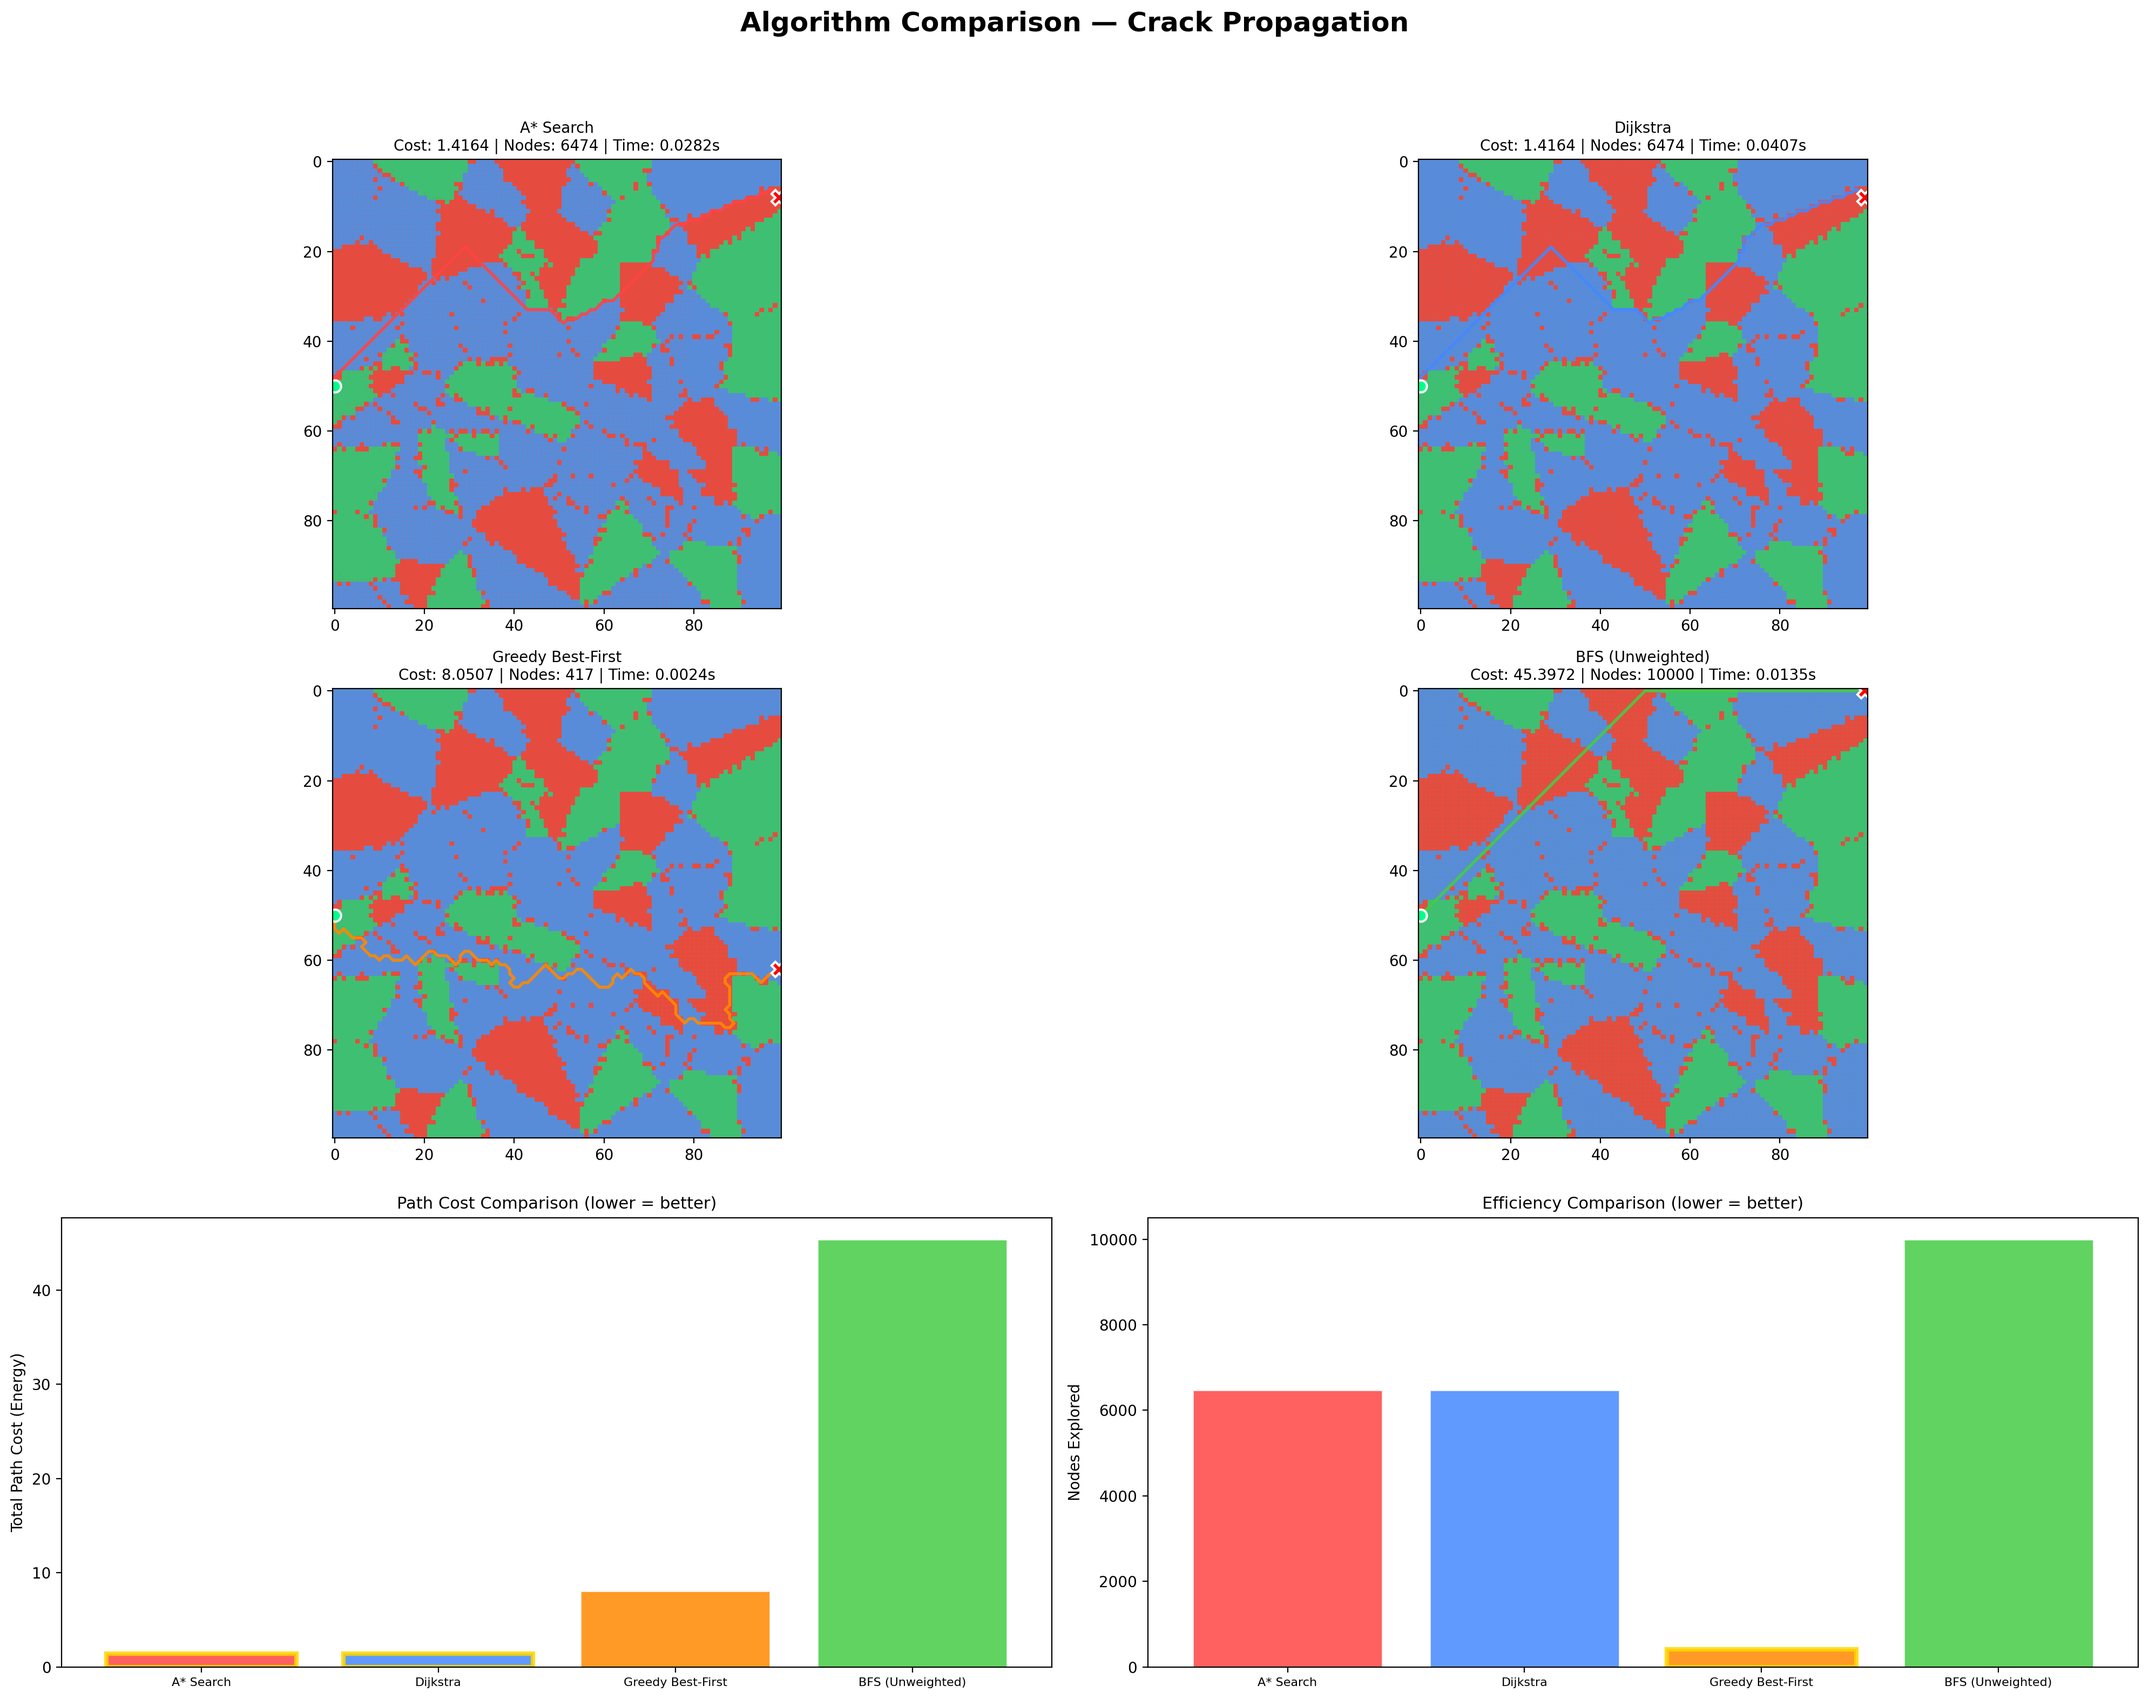
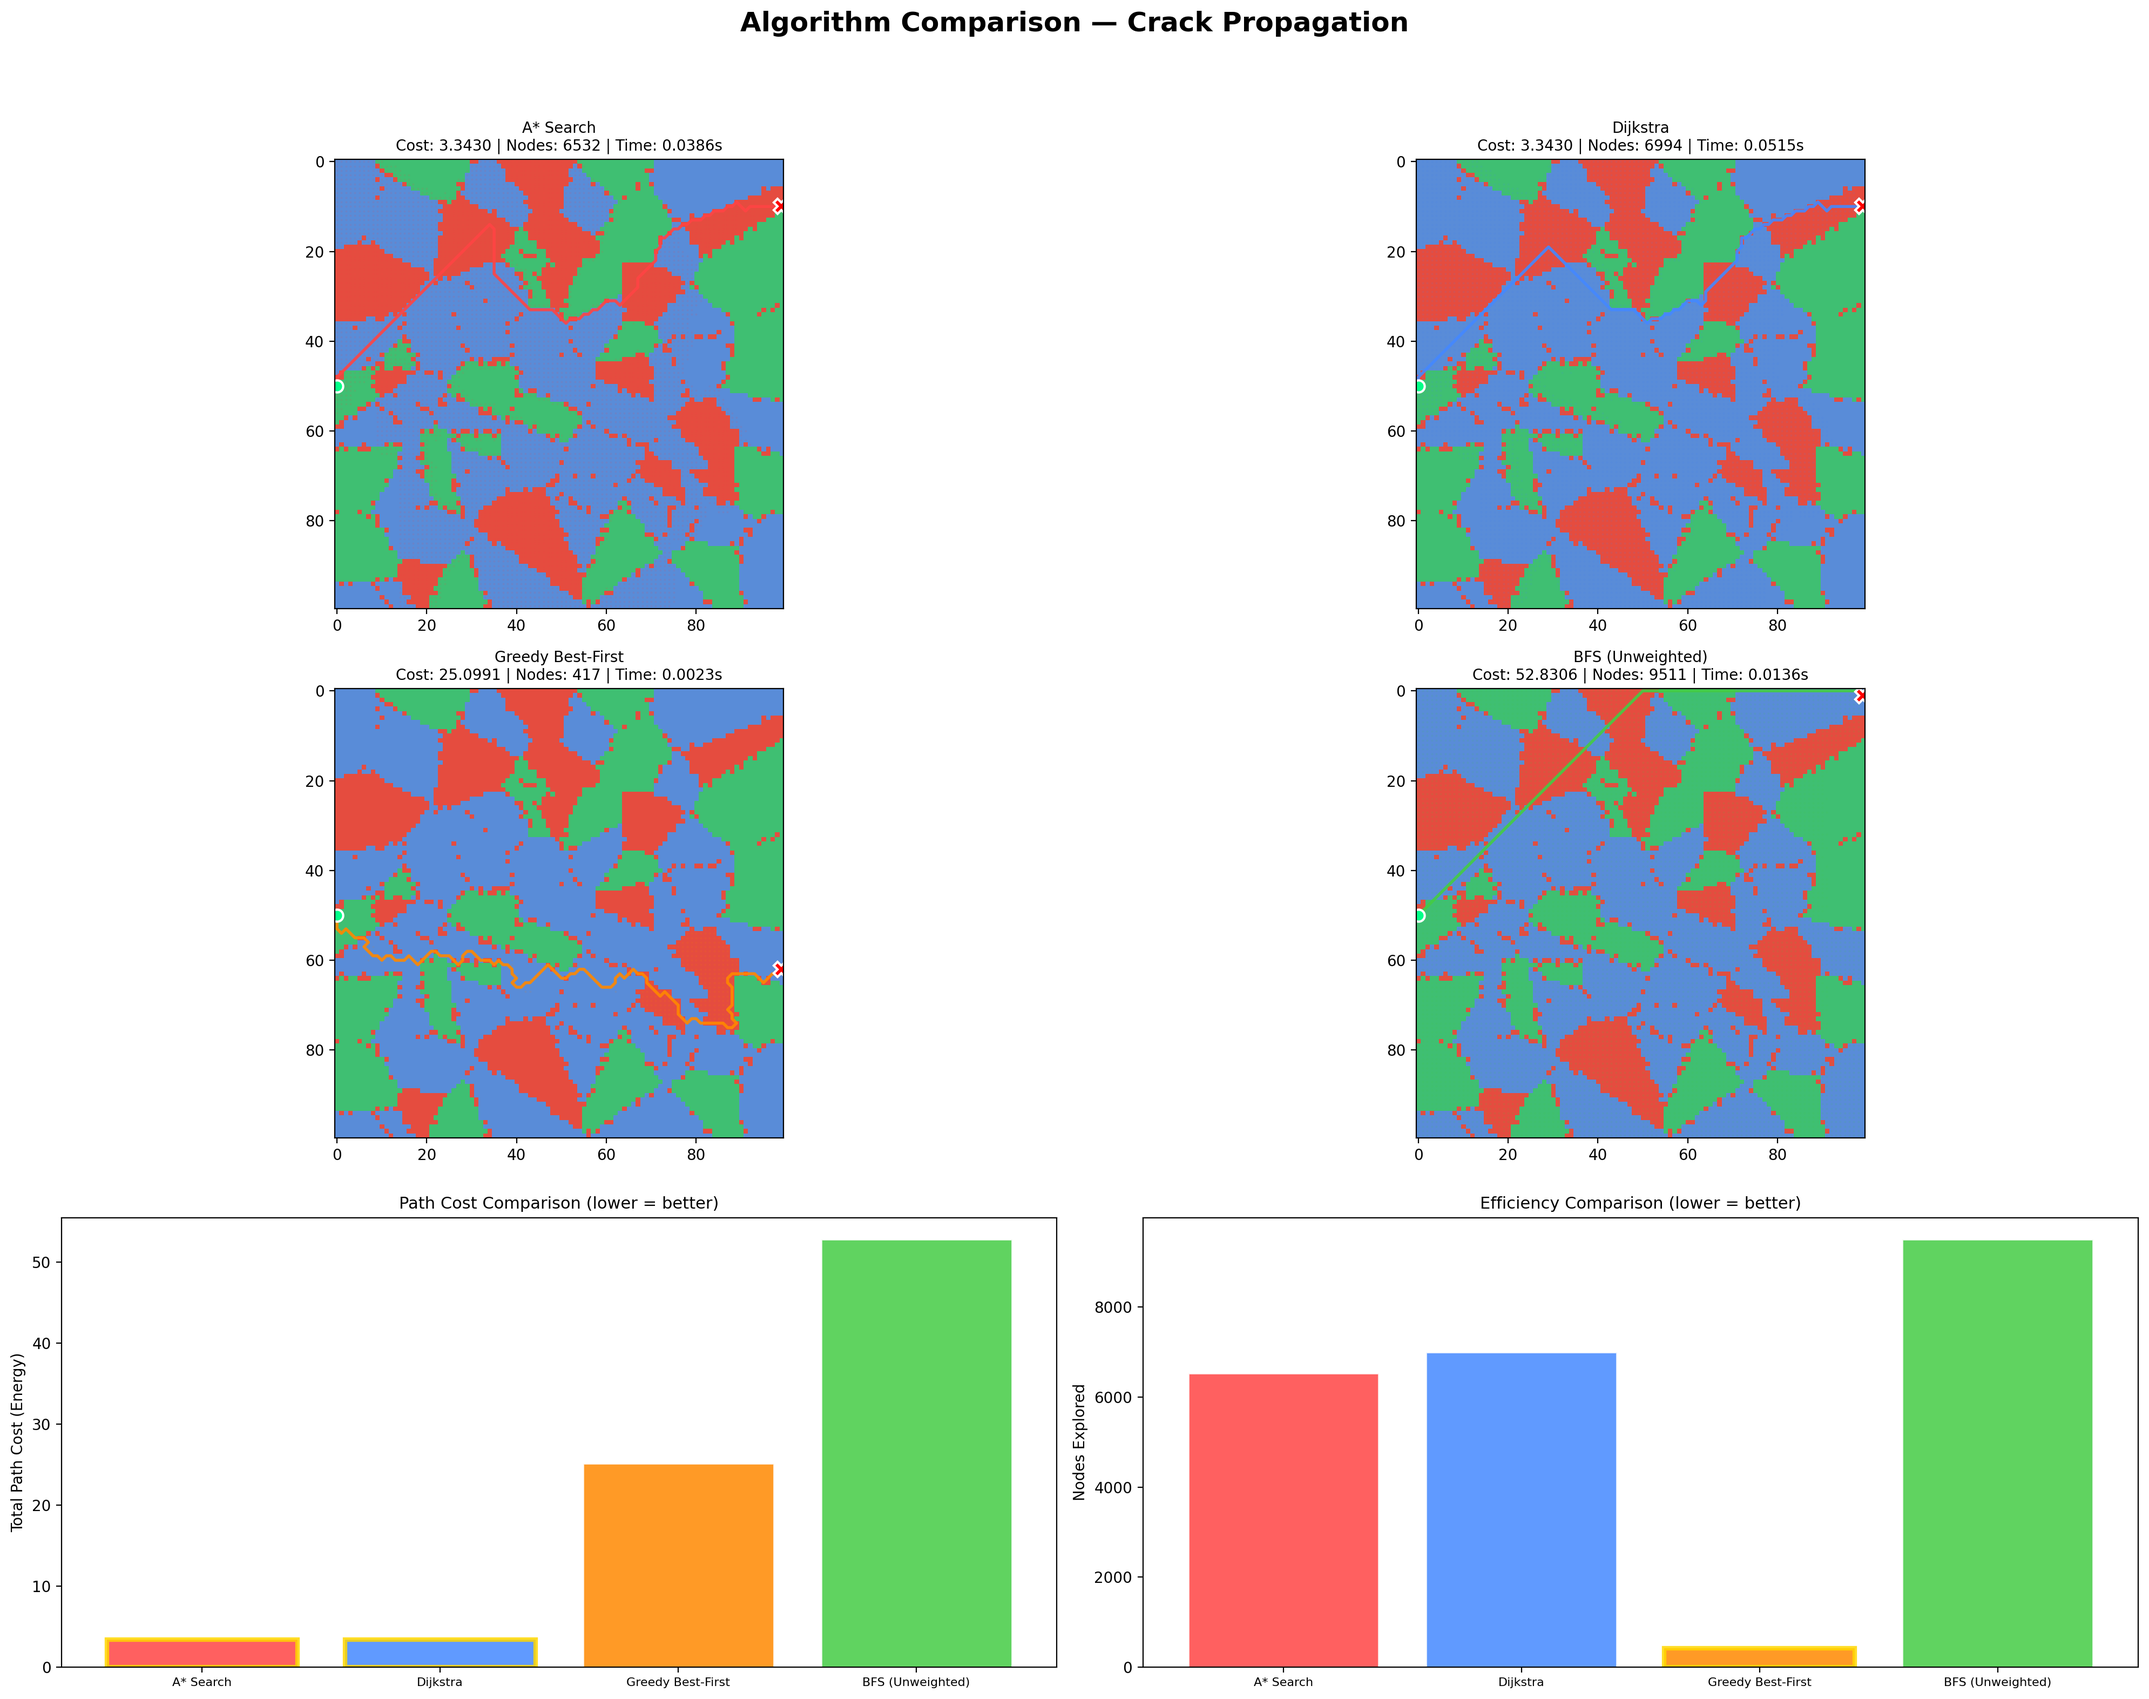
Minor changes

diff --git a/main.py b/main.py
@@ -189,7 +189,7 @@ Modes:
 
     # Stress
     parser.add_argument("--stress-max", type=float, default=2.5)
-    parser.add_argument("--stress-min", type=float, default=0.3)
+    parser.add_argument("--stress-min", type=float, default=0.10)
     parser.add_argument("--k-threshold", type=float, default=0.1)
 
     # Search

diff --git a/Technical_Report.md b/Technical_Report.md
@@ -1,0 +1,110 @@
+# Abstract
+Predicting the path of crack propagation in heterogeneous materials is a complex challenge central to materials science and structural engineering. This project introduces *A\*tomic Fracture*, a novel interdisciplinary approach that models crack propagation as a discrete pathfinding problem solvable via Classical AI. By mapping the principles of Linear Elastic Fracture Mechanics (LEFM) onto a 2D spatial grid, an A* search algorithm is utilized to find the globally optimal, minimum-energy fracture path through a polycrystalline microstructure. This report details the theoretical formulation, algorithmic design, and quantitative performance of the model compared against alternative search techniques.
+
+# Introduction
+Catastrophic material failure often originates from microstructural defects. Understanding and predicting exactly how a crack navigates around tough grains and through brittle inclusions is critical for designing damage-tolerant materials. Historically, crack propagation has been modeled using computationally heavy methods. By adopting Classical AI graph-search techniques, this computationally-expensive problem is transformed into an elegant, scalable optimization framework.
+
+# 1 Problem Formulation
+*   **Real-world problem:** Predicting transcrystalline and intercrystalline crack propagation paths under heterogeneous stress fields in polycrystalline materials.
+*   **Importance:** Accurate prediction of fracture paths helps mitigate catastrophic structural failures in critical applications such as aerospace and nuclear engineering, making proactive damage-tolerant design possible.
+*   **Interdisciplinary significance:** This project combines **Materials Engineering** (fracture toughness, multiphase microstructures) with **Computer Science** (graph theory, heuristic optimization), bridging high-fidelity physical simulation with rapid algorithmic approximation.
+*   **Inputs and Outputs:** 
+    *   *Inputs:* A 2D grid containing multiphase solid mapping (Ferrite, Martensite, Brittle Inclusions), local fracture toughness ($K_{IC}$), and an applied stress gradient ($K_{applied}$).
+    *   *Outputs:* The exact continuous minimum-energy path from the initiation site to the boundary, or an explicit *arrest* state if the driving force is insufficient.
+*   **Problem Characteristics:** The environment is *stochastic* (randomized Voronoi grain generation), the physical state is evaluated as *static* (pre-calculated linear stress gradients), and the solver operates in a *discrete*, *constrained* formulation.
+
+# Literature Context
+Predictive fracture mechanics usually relies on the Extended Finite Element Method (XFEM) or Phase-Field models. While highly accurate, these are notoriously slow. Conversely, graph-based heuristic approaches (like A*) have achieved massive success in operations research and robotics but are rarely applied to physical damage simulations. This project seeks to optimize an energy-based objective function rather than simple geometric distance.
+
+# 2 Method and Justification
+
+## Why This Method is Appropriate
+*   **Method matching:** Crack propagation fundamentally follows the path of least resistance, striving to minimize the total energy released during fracture. This maps perfectly onto the shortest-path graph optimization problem.
+*   **Problem properties and algorithm strengths:** By employing a physically-informed heuristic, A* avoids the exhaustive "flood-fill" exploration characteristic of Dijkstra's algorithm, navigating accurately around high-toughness phases.
+*   **Suitability:** 
+    *   *Optimality:* A* guarantees finding the path with the exact minimum total resistance.
+    *   *Efficiency:* The heuristic prunes the search space dramatically over unweighted or uninformed algorithms.
+    *   *Interpretability:* Every evaluated step explicitly correlates to the local physical energy required to break a specific atomic bond.
+
+## Algorithm Design and Methodology
+*   **Full pipeline:** 
+    1. A Voronoi tessellation assigns randomized phases with characteristic toughness values: Ferrite ($K_{IC}=1.0$), Martensite ($K_{IC}=3.0$), and Inclusions ($K_{IC}=0.3$).
+    2. A linear $K_{applied}$ field is evaluated across the grid to determine the driving force. 
+    3. An admissible *suffix-minimum* array of column-wise resistances is precomputed as the heuristic.
+    4. A* explores the graph, driven by the cost function spanning physical equations, halting at the opposite boundary or upon total arrest.
+
+*   **Major stages:**
+    *   *Edge Cost Evaluation:* $Resistance = \max(0, K_{IC} - K_{applied})$. Backward moves are artificially penalized.
+    *   *Crack Arrest Pruning:* Nodes with $K_{applied} < 0.10 \times K_{IC}$ are discarded.
+
+---
+
+**Algorithm 1** A*tomic Fracture Search Algorithm
+**Require:** Microstructure Input Grid ($K_{IC}$, $K_{applied}$), Start Node $S$, Goal Boundary $G$
+**Ensure:** Minimum-energy contiguous crack path $P$, or ARREST state
+1: Initialize `open_set` as Priority Queue, push $S$
+2: Initialize `g_score[S] = 0`, `came_from = {}`
+3: Precompute admissible heuristic array $H(c)$ based on suffix-min column resistances
+4: **while** `open_set` is not empty **do**
+5:      Select the next node $N(r,c)$ with lowest $f = g + h$
+6:      **if** $N(r,c)$ is on Goal Boundary $G$ **then**
+7:          **Return** reconstructed path $P$ from `came_from`
+8:      **end if**
+9:      **for** each valid neighbor $N'$ of $N$ **do**
+10:         Evaluate local arrest: **if** $K_{applied} < 0.1 \times K_{IC}$ **then** Continue
+11:         Apply transition cost: $R = \max(0, K_{IC}(N') - K_{applied}(N'))$
+12:         Evaluate geometric distance scaling and backward penalty
+13:         $tentative\_g = g\_score[N] + (R \times distance\_scaling)$
+14:         **if** $tentative\_g < g\_score[N']$ **then**
+15:             $g\_score[N'] = tentative\_g$
+16:             Push $N'$ to `open_set` alongside $f\_score = tentative\_g + H(N'_{col})$
+17:         **end if**
+18:     **end for**
+19: **end while**
+20: **Return** failure or best available result (ARREST)
+
+---
+
+# 3 Implementation Details
+
+## System Design
+*   **Software structure:** The software is architected into modular Python scripts. It utilizes `numpy` and `scipy` for rapid matrix calculations and `matplotlib` for visualization.
+*   **Important modules:** 
+    *   `environment.py`: Manages the domain using OOP. Defines boundary generation and localized physics constraints.
+    *   `astar_search.py`: Core algorithm logic containing the specialized, physically-admissible heuristic design.
+    *   `visualizer.py`: Renders granular heat maps and physical paths.
+    *   `algorithm_comparison.py`: Benchmarking suite directly comparing diverse search methods.
+*   **Key data structures:** 2D NumPy arrays representing $K_{IC}$, $K_{applied}$, and grain labels. Min-heaps (priority queues) for standardizing optimal A* boundary expansions.
+
+## GitHub Repository
+*   The Git repository hosts the entire framework structure.
+*   The repository includes all the algorithm Python code, documentation, and a comprehensive README detailing setup.
+
+**Repository Link:** https://github.com/JitamB/Microstructural-Crack-Propagation-Prediction-using-Claasical-AI
+
+# 4 Results and Performance Analysis
+
+## Experimental Setup
+*   **Datasets and Scenarios:** The model was evaluated on a $100 \times 100$ randomized grid (10,000 pixels) maintaining constant phase probabilities: 49.8% Ferrite, 26.9% Martensite, 23.2% Brittle Inclusions. The applied stress was graded from 2.50 to 0.10. 
+*   **Hardware/Software setup:** Python 3 on macOS.
+*   **Evaluation metrics:** Target parameters evaluated were the minimal path cost (total consumed energy), explored node count (efficiency indicator), and total script run time. Models evaluated include A*, Dijkstra, Greedy Best-First, and Unweighted Breadth-First Search (BFS).
+
+## Quantitative Results
+| Algorithm | Final Path Cost (Energy) | Nodes Explored | Path Length | Time Elapsed (s) | Optimality |
+| :--- | :--- | :--- | :--- | :--- | :--- |
+| **A\* Search** | **3.3430** | **6,532** | **118 px** | **0.038** | **Optimal** |
+| Dijkstra | 3.3430 | 6,994 | 108 px | 0.051 | Optimal |
+| Greedy BFS | 25.0991 | 417 | 125 px | 0.002 | Sub-optimal |
+| BFS (Unweighted) | 52.8306 | 9,511 | 100 px | 0.013 | Sub-optimal |
+
+*   **Accuracy and Cost:** Both A* and Dijkstra correctly matched the absolute minimum-energy path satisfying physical constraints (Cost: 3.3430). The unweighted BFS found a shorter trajectory (100 px) but catastrophically failed constraints, consuming disproportionate energy (Cost: 52.83) by ripping straight through high-toughness martensite.
+*   **Time and Efficiency Constraints:** The advanced suffix-minimum heuristic ensured A* evaluated roughly 6.5% fewer total operations than standard Dijkstra while delivering identical accuracy.
+
+# Conclusion
+The *A\*tomic Fracture* simulator successfully demonstrates that deterministic graph-search algorithms can function as rapid, proxy evaluators for complex physical phenomena. By intelligently adapting the A* search heuristic to respect the energetic fundamentals of crack propagation and stress intensity, the computational model effectively simulates fracture events while remaining exponentially more efficient than uninformed pathfinders. 
+
+# Future Scope
+Advancing this model to research-grade fidelity ultimately requires replacing key mechanical assumptions with continuous mechanisms. Future enhancements will prioritize:
+1.  Implementing iterative, dynamic stress redistribution across the grid to replicate localized Mode-I stress concentrations during active crack propagation.
+2.  Assigning continuous anisotropic toughness coefficients oriented along crystallographic cleavage planes.
+3.  Deploying deep learning edge-segmentation to parse, skeletonize, and map actual Scanning Electron Microscope (SEM) TIFF files into graph networks automatically.

diff --git a/README.md b/README.md
@@ -80,37 +80,31 @@ Run a standard A* fracture simulation on a generated Voronoi microstructure:
 python main.py
 ```
 
-### Algorithm Comparison
+### Modified Simulation
 Run the simulation and compare A* against Dijkstra, Greedy Best-First, and BFS to see side-by-side benchmarks:
 ```bash
 python main.py --compare
 ```
 
-### Monte Carlo Analysis
 Run statistical failure analysis over multiple random microstructures (e.g., 100 runs) to generate probability distributions:
 ```bash
 python main.py --monte-carlo --mc-runs 100
 ```
 
-### Real Image Input
 Run the simulation on a real SEM/EBSD image by auto-segmenting it into phases:
 ```bash
 python main.py --image microstructure.png
 ```
-
-### Algorithm Comparison on Real Image
 Compare algorithms directly on a segmented real microstructure image:
 ```bash
 python main.py --compare --image microstructure.png
 ```
 
-### Custom Microstructure Generation
 Generate a custom synthetic microstructure with specific size, grain count, and constant random seed:
 ```bash
 python main.py --size 150 --n-grains 120 --seed 7
 ```
 
-### Background Execution & Animation
 Run the simulation in the background without displaying the plot, and save an animated GIF of the crack propagation path finding:
 ```bash
 python main.py --no-show --animate
